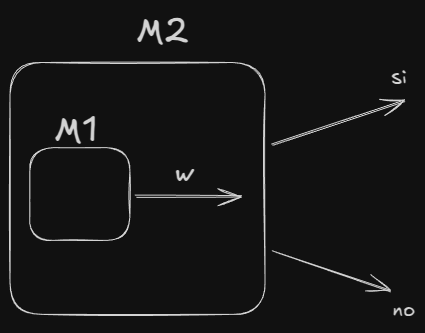
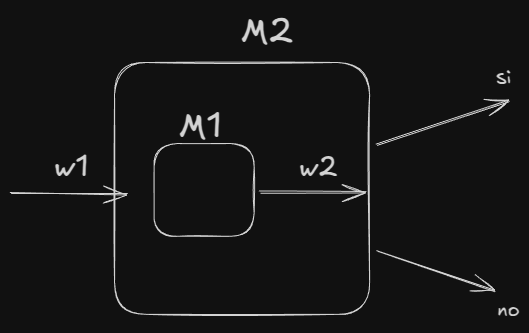
trabajo3 ya consultado, algun dia mejorare la redaccion de mis respuestas

diff --git a/parte1/practica/trabajo3.md b/parte1/practica/trabajo3.md
@@ -58,16 +58,18 @@ La idea general es construir una MT M que a partir de la entrada del numero natu
  
 ## Ejercicio 4. Sea M1 una MT que genera en su cinta de salida todas las cadenas de un lenguaje L. Dar la idea general de cómo sería una MT M2 que, usando M1, acepte una cadena w sii w ∈ L.  
 Idea general, la MT M2 debería:
-- aceptar w si w ∈ L
-- rechazar si w ∉ L
+- paso 1: MT M2 toma la cadena w1 de su entrada 
+- paso 2: ejecuta la MT M1 para que genere de a UNA las cadena w2
+- paso 3: si w1 == w2 M2 acepta
+- paso 4: si w1 != w2 entonces vuelvo al paso 2
 
 Entonces:
-- M2 ejecuta M1 para obtener una cadena w ∈ L
-- M2 **<u>SIEMPRE ACEPTA</u>** ya que todas las cadenas que genere M1 son cadenas w ∈ L
+- M2 ejecuta M1 para obtener una cadena w2 ∈ L que compara con su cadena w1 de entrada
+- M2 **<u>PUEDE ACEPTAR</u>** pero **<u>NUNCA PODRIA DECIDIRLO</u>**
 
 ![ejercicio4](./imagenes/trabajo3-ejercicio4.png)
  
-## Ejercicio  5. El lenguaje LU = {(<M>, w) | M  acepta  w} se conoce como lenguaje universal, y representa el problema general de aceptación. Probar que LU ∈ RE. Ayuda: construir una MT que acepte LU. 
+## Ejercicio  5. El lenguaje LU = {(< M >, w) | M  acepta  w} se conoce como lenguaje universal, y representa el problema general de aceptación. Probar que LU ∈ RE. Ayuda: construir una MT que acepte LU. 
 Para construir una MT M1 que acepte LU, lo que hacemos es ver que M1 ejecute w sobre el código que representa a M y:
 - si M acepta w -> M1 acepta
 - si M rechaza w -> M1 rechaza
@@ -79,29 +81,32 @@ Para construir una MT M1 que acepte LU, lo que hacemos es ver que M1 ejecute w s
 **f01(v) = 1, si v = (< M >, w) y M para a partir de w.**  
 **f01(v) = 0, si v = (< M >, w) y M no para a partir de w o bien v ≠ (< M >, w).**  
 **Probar que f01 no es total computable (es recursivo). Ayuda: ¿con qué problema se relaciona dicha función?**  
-Este problema se relaciona directamente con el HP. Para demostrar que no es total computable (recursivo - siempre se detiene) vamos a suponer que justamente es total computable para llegar a un absurdo.
-Como sabemos que el HP (problema de la parada) es indecidible, para esto deberiamos construir una maquina que decida el HP, por lo tanto f01 no es total computable.
+Este problema se relaciona directamente con el HP.
+Suponemos que f01 es total computable (R), ya que podria indicarnos cuando M se "para" o "no para", de ser esto posible estariamos volviendo DECIDIBLE el HP, es por esto que seria un absurdo probar que f01 es total computable (R)
  
 ## Ejercicio  7. Responder breve y claramente cada uno de los siguientes  incisos (en todos los casos, las MT mencionadas tienen una sola cinta):  
 ## formula general del calculo `Total: N = K.N1.N2^K configuraciones distintas` `k=celdas` `n1=estados` `n2=simbolos`
 ### a. Probar que se puede decidir si una MT M, a partir de la cadena vacía λ, escribe alguna vez un símbolo no blanco. Ayuda: ¿Cuántos pasos puede hacer M antes de entrar en un loop?  
-N = K.N1.N2^K  
-K celdas, a 1 que es la cantidad de simbolos que queremos decidir si se escriben  
-N1 estados, sabemos que son finitos, pero no cuantos en total  
-N2 simbolos, no conocemos cuantos son en total  
-
-N = estados * simbolos  
-
+- M recibe el codigo de maquina correspondiente (< M' >, w)   
+- K celdas, es 1 ya que estamos trabajando con la cadena vacía   
+- N1 estados, al desconocer la cantidad de estados  
+- N2 simbolos, solo tiene en cuenta el simbolo en blanco (la cinta de entrada tendria todos blancos por simular λ sobre M')  
+- **En este caso es en funcion de los estados que sabremos la cantidad de pasos que haria M' antes de entrar en loop**
 
 ### b. Probar que se puede decidir si una MT M que sólo se mueve a la derecha,  a partir de una cadena w, para, Ayuda: ¿Cuántos pasos puede hacer M antes de entrar en un loop?  
-N = K.N1.N2^K  
-K celdas, en este caso es la longitud+1 de la cadena w (para verificar el B siguiente a la cadena)  
-N1 estados, sabemos que son finitos, pero no cuantos en total  
-N2 simbolos, no conocemos cuantos son en total  
-
-N = (len(w)+1).N1.N2^(len(w)+1)  
+- Al tener una maquina que solo va a la derecha, solo podemos leer ya que si escribimos no podriamos "releerlo".  
+- K celdas, partimos de la necesidad de verificar toda la cadena w, por eso lo tenemos en cuenta como el len(w)+1 (+1 por el primer B luego de w)
+- N1 estados, podriamos recorrer tantos "B" luego de la cadena como estados tengamos
+- N2 simbolos, desconocemos la cantidad de simbolos 
+- **En este caso es en funcion de la longitud de la cadena (len(w)+1 + N1)**
 
 ### c. Probar que se puede decidir si dada una MT M, existe una cadena w a partir de la cual M para en a lo sumo 10 pasos. Ayuda: ¿Hasta qué tamaño de cadenas hay que chequear?  
+- A lo sumo poder recorrer 10 pasos nos indica que podremos como mucho procesar cadenas de tamaño 10 (suponiendo 1 paso 1 lectura de caracter)
+- Al limitar el tamaño de las cadenas se vuelve un conjunto finito para chequear, por lo cual pasa a ser un lenguaje decidible
+  - si pasos <= 10 si M para es porque acepta
+  - si pasos = 10 y M no para rechaza
 
-
-### d. ¿Se puede decidir si dada una MT M, existe una cadena w de a lo sumo 10 símbolos a partir de la cual M para? Justificar la respuesta. 
+### d. ¿Se puede decidir si dada una MT M, existe una cadena w de a lo sumo 10 símbolos a partir de la cual M para? Justificar la respuesta.  
+- Tenemos una restriccion que el len(w) <= 10
+- Esta restriccion no afecta a la MT M
+- No conocemos su código (estados, simbolos) entonces no sabemos como computaria la cadena de entrada mas alla de la cantidad de simbolos
